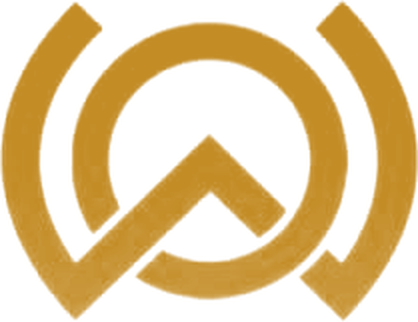
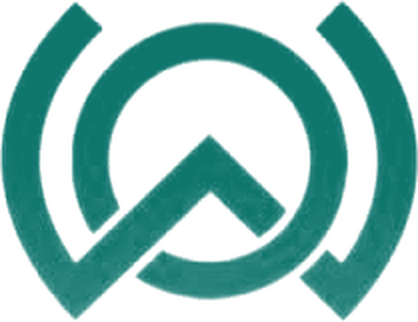
Rebrand: teal and white

diff --git a/src/app/design-system/page.tsx b/src/app/design-system/page.tsx
@@ -39,21 +39,22 @@ export default function DesignSystemPage() {
           <h1 className="mt-3 text-4xl font-bold sm:text-5xl">Design system</h1>
           <p className="mt-4 max-w-2xl text-muted-foreground">
             Two brand colours taken from the logo, pure-grey neutrals, flat surfaces. Each page has one dominant
-            colour; gold is the accent.
+            colour; teal is the accent.
           </p>
         </div>
       </div>
 
       <div className="mx-auto max-w-content space-y-20 px-4 pt-16 sm:px-6">
-        <Section title="Brand colours" note="Measured from the original logo. No other golds: tints use opacity.">
+        <Section title="Brand colours" note="Teal is the only brand colour. No other teals: tints use opacity.">
           <div className="grid gap-4 sm:grid-cols-2">
-            <Swatch className="bg-brand-gold text-black" name="Gold" hex="#C38C25" usage="Logo, primary button, accents, active states" />
-            <Swatch className="bg-brand-black text-white" name="Black" hex="#000000" usage="Dark pages, hero, text on gold" />
+            <Swatch className="bg-brand-teal text-white" name="Teal" hex="#0F766E" usage="Logo, primary button, accents, active states" />
+            <Swatch className="bg-brand-teal-light text-black" name="Light teal" hex="#2DD4BF" usage="Accents and links on dark photo heroes" />
+            <Swatch className="bg-brand-black text-white" name="Black" hex="#000000" usage="Text, tints over photos" />
           </div>
           <div className="mt-6 grid gap-3 text-sm sm:grid-cols-3">
-            <Contrast pair="Gold on black" ratio="7.1 : 1" ok text="Gold text and links allowed" />
-            <Contrast pair="Black on gold" ratio="7.1 : 1" ok text="Primary button label" />
-            <Contrast pair="Gold on white" ratio="3.0 : 1" text="Fills and icons only, never body text" />
+            <Contrast pair="White on teal" ratio="5.5 : 1" ok text="Primary button label" />
+            <Contrast pair="Teal on white" ratio="5.5 : 1" ok text="Teal text and links allowed" />
+            <Contrast pair="Light teal on black" ratio="11.3 : 1" ok text="Links and accents on dark heroes" />
           </div>
         </Section>
 
@@ -73,7 +74,7 @@ export default function DesignSystemPage() {
                 <tr>
                   <th className="px-4 py-3 font-semibold">Page</th>
                   <th className="px-4 py-3 font-semibold">Dominant</th>
-                  <th className="px-4 py-3 font-semibold">Gold used for</th>
+                  <th className="px-4 py-3 font-semibold">Teal used for</th>
                 </tr>
               </thead>
               <tbody className="divide-y">
@@ -118,7 +119,7 @@ export default function DesignSystemPage() {
           </div>
         </Section>
 
-        <Section title="Buttons" note="One gold button per view, for the main action.">
+        <Section title="Buttons" note="One teal button per view, for the main action.">
           <ThemePair>
             <div className="flex flex-wrap items-center gap-3">
               <Button>
@@ -164,7 +165,7 @@ export default function DesignSystemPage() {
           </ThemePair>
         </Section>
 
-        <Section title="Search bar" note="The homepage hero pattern: black dominant, one gold action.">
+        <Section title="Search bar" note="The homepage hero pattern: white search box, one teal action.">
           <div className="dark rounded-lg border bg-background p-6 text-foreground sm:p-8">
             <div className="mb-5 inline-flex rounded-md border p-1" role="group" aria-label="Listing type">
               <Button size="sm" className="h-8">
@@ -208,7 +209,7 @@ export default function DesignSystemPage() {
           <div className="flex flex-wrap gap-2">
             <Badge variant="solid">For sale</Badge>
             <Badge variant="solid">For rent</Badge>
-            <Badge variant="gold">Featured</Badge>
+            <Badge variant="brand">Featured</Badge>
             <Badge variant="neutral">Apartment</Badge>
             <Badge variant="outline">Furnished</Badge>
             <Badge variant="success">Available</Badge>
@@ -227,7 +228,7 @@ export default function DesignSystemPage() {
           </div>
         </Section>
 
-        <Section title="Legal service cards" note="Black icon tile with gold icon. Homepage carousel and legal pages.">
+        <Section title="Legal service cards" note="Teal icon tile with white icon. Homepage carousel and legal pages.">
           <div className="grid gap-4 sm:grid-cols-2 lg:grid-cols-3">
             {designReviewLegalServices.map((s) => (
               <LegalServiceCard key={s.slug} service={s} />
@@ -287,7 +288,7 @@ export default function DesignSystemPage() {
 }
 
 const pagePlan: [string, string, string][] = [
-  ["Homepage", "Photo hero (tinted), white sections below", "Search button, gold full stop, “Featured” badges"],
+  ["Homepage", "Photo hero (tinted), white sections below", "Search button, teal full stop, “Featured” badges"],
   ["Search & listings", "White", "Active filters, primary action"],
   ["Property detail", "White", "Enquire button"],
   ["Explore Abuja", "White; photo hero on district pages", "Rating bars, active tab"],

diff --git a/src/app/globals.css b/src/app/globals.css
@@ -5,16 +5,16 @@
 /*
  * Theme variables (HSL channels, used as hsl(var(--x))).
  *
- * Brand gold #C38C25 = 39 68% 45%, measured from the original logo.
- * Brand black #000000.
- * Neutrals are pure greys (no warm tint) so the gold stays the only colour.
+ * Brand teal #0F766E = 175 77% 26% (logo, buttons, accents) on white.
+ * Light teal #2DD4BF = 172 66% 50% replaces it on dark surfaces (photo heroes).
+ * Neutrals are pure greys so teal stays the only colour.
  *
- * Light is the default. Wrap a page or section in `.dark` for the black theme.
+ * Light is the default. Wrap a page or section in `.dark` for the dark theme.
  * Contrast rules (WCAG AA):
- *   gold on black  7.1:1  -> gold text and links are fine on dark surfaces
- *   gold on white  3.0:1  -> on light surfaces gold is for fills, icons and accents,
- *                            never body text; links use foreground + gold underline
- *   black on gold  7.1:1  -> primary buttons use black text
+ *   white on teal #0F766E  5.5:1 -> primary buttons use white text
+ *   teal #0F766E on white  5.5:1 -> teal text and links are fine on light pages
+ *   light teal on black    11:1  -> teal text and links on dark surfaces
+ *   black on light teal    11:1  -> primary buttons on dark surfaces use black text
  */
 @layer base {
   :root {
@@ -27,9 +27,9 @@
     --muted-foreground: 0 0% 40%;
     --border: 0 0% 90%;
     --input: 0 0% 84%;
-    --primary: 39 68% 45%;
-    --primary-foreground: 0 0% 0%;
-    --ring: 39 68% 45%;
+    --primary: 175 77% 26%;
+    --primary-foreground: 0 0% 100%;
+    --ring: 175 77% 26%;
     --destructive: 0 72% 42%;
     --destructive-foreground: 0 0% 100%;
     --success: 142 64% 27%;
@@ -47,6 +47,9 @@
     --muted-foreground: 0 0% 64%;
     --border: 0 0% 16%;
     --input: 0 0% 24%;
+    --primary: 172 66% 50%;
+    --primary-foreground: 0 0% 0%;
+    --ring: 172 66% 50%;
     --destructive: 0 84% 66%;
     --destructive-foreground: 0 0% 0%;
     --success: 142 60% 55%;

diff --git a/src/components/legal/legal-service-card.tsx b/src/components/legal/legal-service-card.tsx
@@ -34,7 +34,7 @@ export function LegalServiceCard({
         className
       )}
     >
-      <span className="grid size-12 place-items-center rounded-lg bg-foreground text-primary">
+      <span className="grid size-12 place-items-center rounded-lg bg-primary text-primary-foreground">
         <LegalIcon name={service.icon} className="size-6" />
       </span>
       <Title>{service.title}</Title>
@@ -68,7 +68,7 @@ function PhotoCard({ service, className }: { service: LegalServiceSummary; class
       </div>
       <div className="flex flex-1 flex-col px-5 pb-5">
         {/* Icon tile overlaps the photo's bottom edge. */}
-        <span className="relative -mt-6 grid size-12 place-items-center rounded-lg bg-foreground text-primary ring-4 ring-card">
+        <span className="relative -mt-6 grid size-12 place-items-center rounded-lg bg-primary text-primary-foreground ring-4 ring-card">
           <LegalIcon name={service.icon} className="size-6" />
         </span>
         <Title className="mt-4">{service.title}</Title>

diff --git a/src/components/dashboard/dashboard-sections.tsx b/src/components/dashboard/dashboard-sections.tsx
@@ -143,7 +143,7 @@ export function EnquiryList({
             {manage ? (
               <EnquiryStatusSelect enquiryId={e.id} status={e.status} />
             ) : (
-              <Badge variant={e.status === "new" ? "gold" : "neutral"}>{STATUS_LABELS[e.status]}</Badge>
+              <Badge variant={e.status === "new" ? "brand" : "neutral"}>{STATUS_LABELS[e.status]}</Badge>
             )}
           </div>
           {showSender && e.property && (
@@ -260,7 +260,7 @@ export function LegalRequestsPanel({ requests }: { requests: LegalRequestSummary
                 {" · "}Sent {legalDate.format(new Date(r.createdAt))}
               </p>
             </div>
-            <Badge variant={r.status === "completed" ? "success" : r.status === "new" ? "gold" : "neutral"}>
+            <Badge variant={r.status === "completed" ? "success" : r.status === "new" ? "brand" : "neutral"}>
               {LEGAL_STATUS_LABELS[r.status]}
             </Badge>
           </li>

diff --git a/src/components/brand/logo.tsx b/src/components/brand/logo.tsx
@@ -11,16 +11,14 @@ type LogoProps = {
 };
 
 /**
- * The brand lock-up: gold mark + gold wordmark, as in the original artwork.
- * The logo is the one place gold is used as text on light backgrounds; logos are
- * exempt from text-contrast rules, but keep it at 18px or larger there.
+ * The brand lock-up: teal mark + teal wordmark.
  */
 export function Logo({ href = "/", className, markOnly = false }: LogoProps) {
   return (
     <Link href={href} className={cn("inline-flex items-center gap-2.5", className)} aria-label={`${siteConfig.name} home`}>
       <Image src="/ochworld-mark.png" alt="" width={36} height={28} priority className="h-7 w-auto" />
       {!markOnly && (
-        <span className="font-display text-lg font-bold tracking-[0.08em] text-brand-gold">{siteConfig.name}</span>
+        <span className="font-display text-lg font-bold tracking-[0.08em] text-brand-teal">{siteConfig.name}</span>
       )}
     </Link>
   );

diff --git a/src/components/brand/brand-loader.tsx b/src/components/brand/brand-loader.tsx
@@ -20,7 +20,7 @@ type BrandLoaderProps = {
 const nameSizes = { sm: "text-sm", md: "text-base", lg: "text-lg" } as const;
 
 /**
- * The only loading animation in the product: the logo with a thin gold arc
+ * The only loading animation in the product: the logo with a thin teal arc
  * turning around it, optionally with the wordmark underneath. Used for the
  * first visit and page navigation. Data inside a page uses skeletons instead
  * (see components/ui/skeleton).
@@ -43,7 +43,7 @@ export function BrandLoader({ size = "md", label = "Loading", withName = false, 
       {withName && (
         <span
           aria-hidden="true"
-          className={cn("font-display font-bold tracking-[0.2em] text-brand-gold", nameSizes[size])}
+          className={cn("font-display font-bold tracking-[0.2em] text-brand-teal", nameSizes[size])}
         >
           {siteConfig.name}
         </span>

diff --git a/tailwind.config.ts b/tailwind.config.ts
@@ -4,7 +4,7 @@ import animate from "tailwindcss-animate";
 /**
  * OCHWORLD design tokens.
  *
- * Brand colours are measured from the original logo artwork (gold mark on black)
+ * Brand colours are measured from the original logo artwork (the mark, recoloured teal in Nov 2026; gold originals in docs/brand)
  * and must not be extended with extra shades. Tints are made with opacity
  * (e.g. `bg-primary/10`), never with new hex values. See docs/design-system.md.
  *
@@ -30,7 +30,8 @@ const config: Config = {
       },
       colors: {
         brand: {
-          gold: "#C38C25",
+          teal: "#0F766E",
+          "teal-light": "#2DD4BF",
           black: "#000000",
         },
         border: "hsl(var(--border))",

diff --git a/src/app/(site)/areas/[slug]/page.tsx b/src/app/(site)/areas/[slug]/page.tsx
@@ -76,7 +76,7 @@ export default async function DistrictPage({ params }: Props) {
             </nav>
             <h1 className="mt-8 font-display text-4xl font-bold sm:text-5xl">{district.name}</h1>
             <div className="mt-4 flex flex-wrap items-center gap-2">
-              {profile && <Badge variant="gold">{profile.phase}</Badge>}
+              {profile && <Badge variant="brand">{profile.phase}</Badge>}
               <Badge variant="outline" className="border-white/40 text-white">
                 {district.listingCount > 0 ? pluralize(district.listingCount, "property", "properties") + " available" : "No listings yet"}
               </Badge>

diff --git a/src/components/listings/managed-listing-list.tsx b/src/components/listings/managed-listing-list.tsx
@@ -46,7 +46,7 @@ export function ManagedListingList({
             <div className="min-w-0 space-y-1">
               <div className="flex flex-wrap items-center gap-2">
                 <Badge variant={STATUS_BADGE[l.status]}>{LISTING_STATUS_LABELS[l.status]}</Badge>
-                {l.isFeatured && <Badge variant="gold">Featured</Badge>}
+                {l.isFeatured && <Badge variant="brand">Featured</Badge>}
                 {!l.imageUrl && <span className="text-xs text-muted-foreground">No photos</span>}
               </div>
               <Link href={`/dashboard/listings/${l.id}/edit`} className="line-clamp-1 font-semibold hover:underline">

diff --git a/src/components/property/property-detail-view.tsx b/src/components/property/property-detail-view.tsx
@@ -61,7 +61,7 @@ export function PropertyDetailView({ property, similar, viewer, saved, similarFa
           <header className="space-y-3">
             <div className="flex flex-wrap gap-1.5">
               <Badge variant="solid">{property.listingType === "sale" ? "For sale" : "For rent"}</Badge>
-              {property.isFeatured && <Badge variant="gold">Featured</Badge>}
+              {property.isFeatured && <Badge variant="brand">Featured</Badge>}
             </div>
             <h1 className="text-2xl font-bold sm:text-4xl">{property.title}</h1>
             <p className="flex items-center gap-1.5 text-muted-foreground">

diff --git a/src/components/auth/password-strength.tsx b/src/components/auth/password-strength.tsx
@@ -2,7 +2,7 @@ import { passwordStrength } from "@/lib/validations/auth";
 import { cn } from "@/lib/utils";
 
 const labels = ["Too weak", "Weak", "Fair", "Good", "Strong"];
-// Weak = destructive, fair/good = brand gold, strong = success. No extra colours.
+// Weak = destructive, fair/good = brand teal, strong = success. No extra colours.
 const colors = ["bg-destructive", "bg-destructive", "bg-primary", "bg-primary", "bg-success"];
 
 export function PasswordStrength({ password }: { password: string }) {

diff --git a/src/components/listings/photo-manager.tsx b/src/components/listings/photo-manager.tsx
@@ -137,7 +137,7 @@ export function PhotoManager({ organizationId, propertyId, photos }: PhotoManage
                 <Image src={photo.url} alt={`Photo ${index + 1}`} fill sizes="(min-width: 1024px) 25vw, 50vw" className="object-cover" />
               </div>
               {index === 0 && (
-                <Badge variant="gold" className="absolute left-2 top-2">
+                <Badge variant="brand" className="absolute left-2 top-2">
                   Cover
                 </Badge>
               )}
